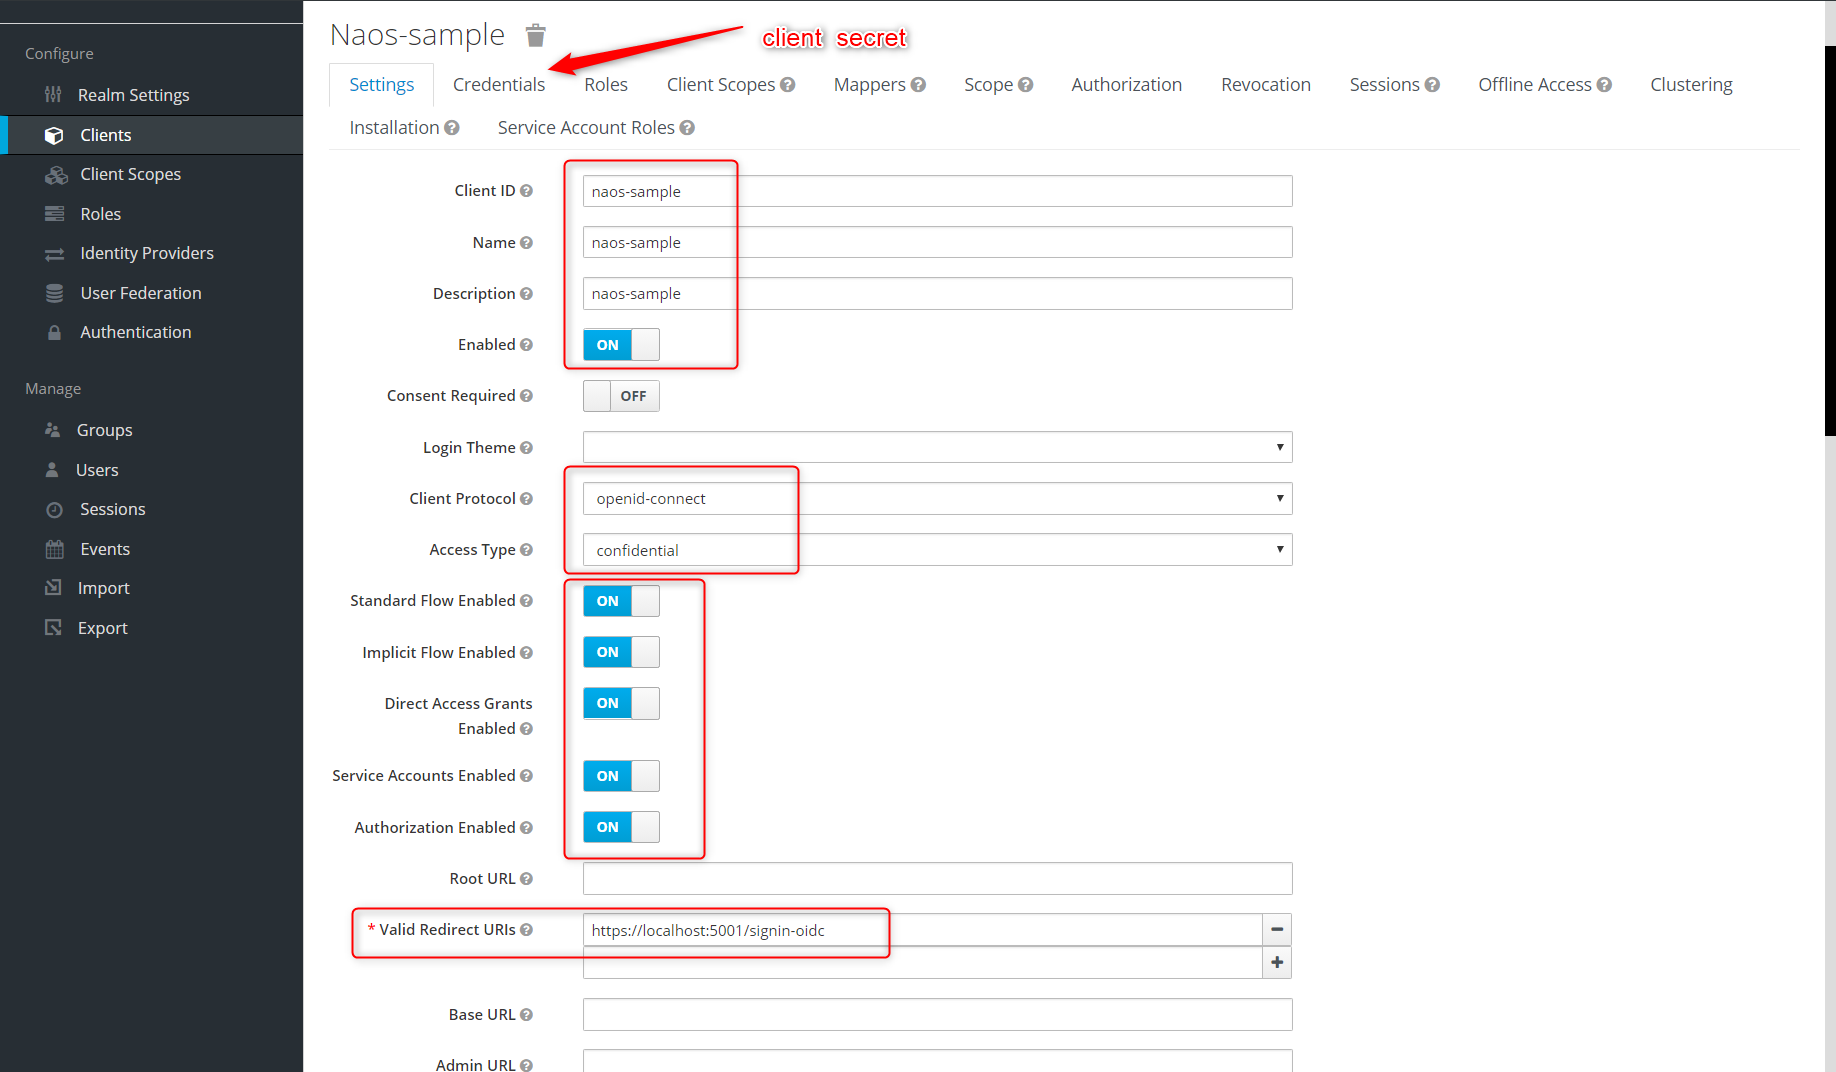
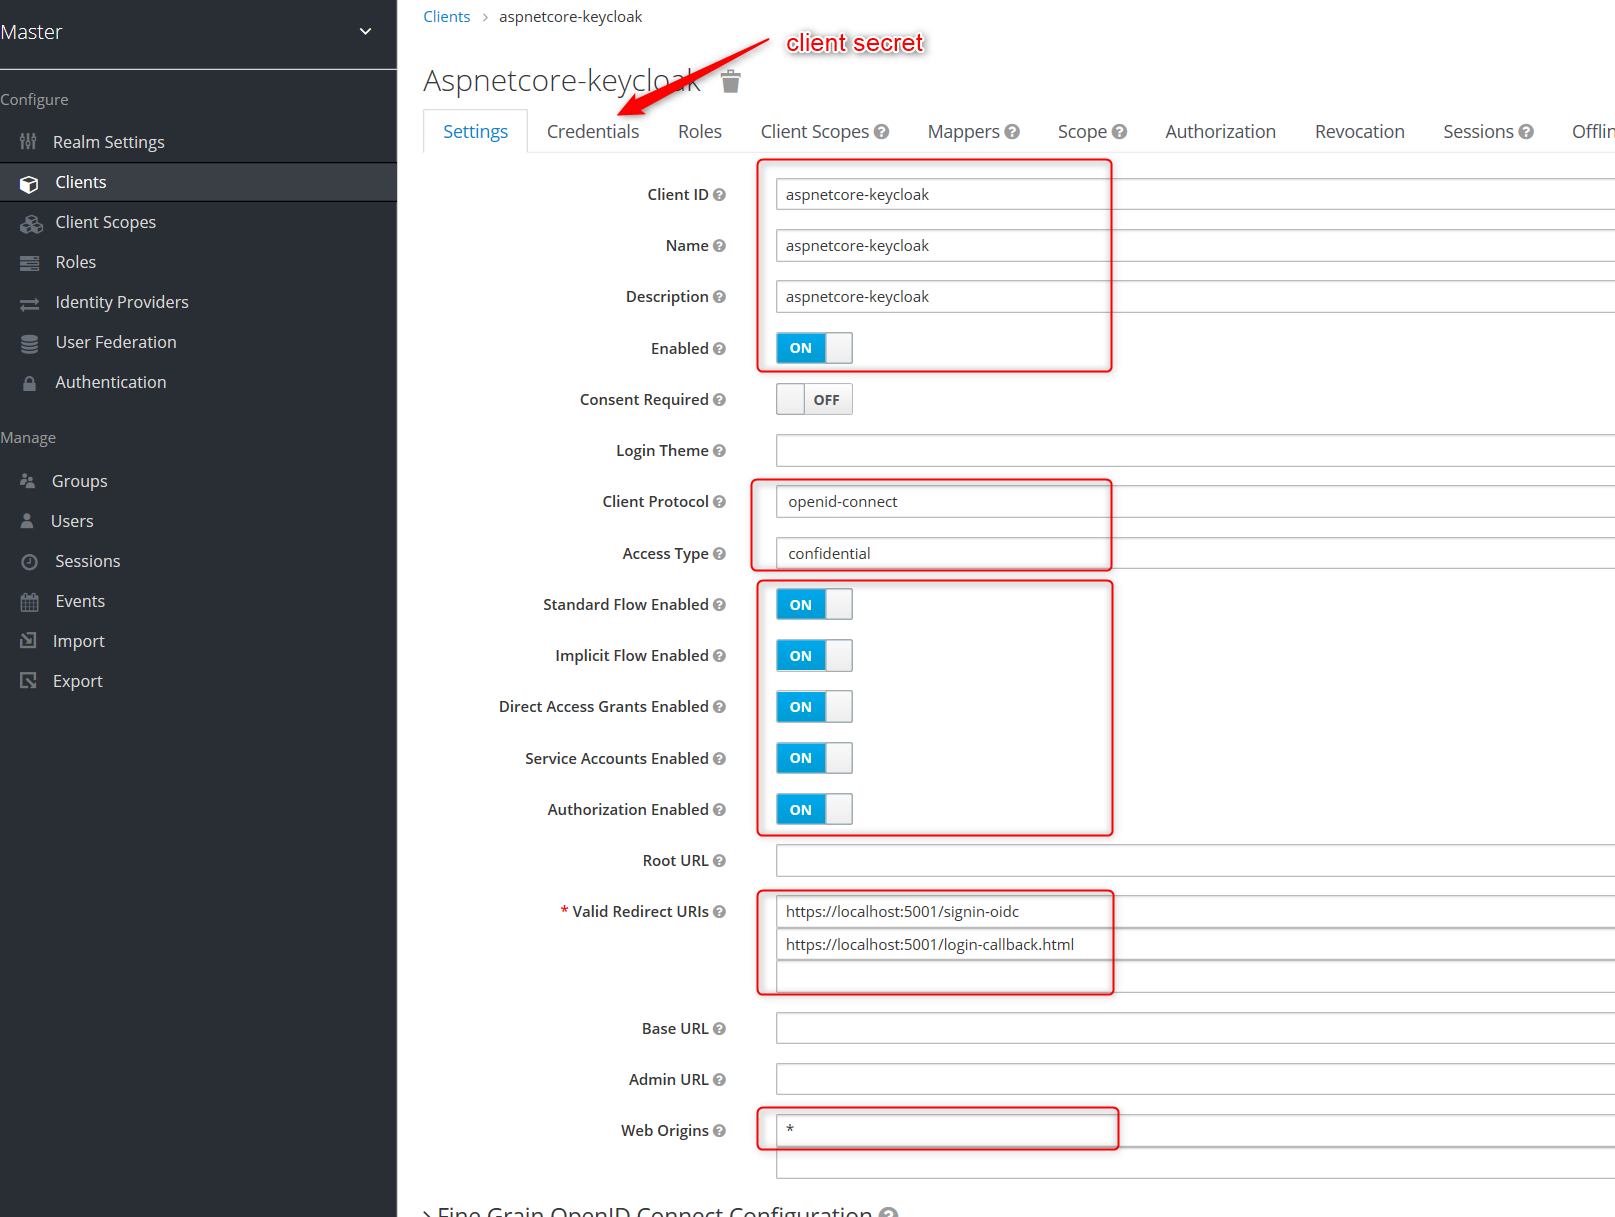
global-keycloak.azurewebsites.net

Changed region(s): [[0.1548, 0.0, 1.0, 1.0], [0.0, 0.0, 0.1238, 0.3694], [0.0, 0.3694, 0.0929, 0.6157]]

diff --git a/WebApi/wwwroot/signin-oidc.html b/WebApi/wwwroot/signin-oidc.html
@@ -14,9 +14,11 @@
             margin: 1em 0px;
             font-size: 12px;
         }
-        .table-striped>tbody>tr:nth-of-type(odd) {
+
+        .table-striped > tbody > tr:nth-of-type(odd) {
             background-color: black;
         }
+
         a {
             text-decoration: none;
             color: gray;
@@ -43,11 +45,11 @@
     </style>
     <script>
         var clientInfo = {
-            client_id: 'naos-sample',
-            redirect_uri: 'https://localhost:5001/login-callback.html'
+            client_id: 'aspnetcore-keycloak',
+            redirect_uri: 'https://localhost:5001/signin-oidc-callback.html'
         };
 
-        var providerInfo = OIDC.discover('http://localhost:8080/auth/realms/master');
+        var providerInfo = OIDC.discover('https://global-keycloak.azurewebsites.net/auth/realms/master');
         OIDC.setClientInfo(clientInfo);
         OIDC.setProviderInfo(providerInfo);
         OIDC.storeInfo(providerInfo, clientInfo);
@@ -64,7 +66,7 @@
 
 <BODY>
     <div class="container" style="margin-bottom: 50px;">
-        <h1>Implicit Flow - Login Page</h1>
+        <h1>Client Side > Implicit Flow - Signin Page</h1>
         <br>
         <b>clientInfo</b>
         <div id="clientInfo">

diff --git a/WebApi/wwwroot/signin-oidc-callback.html b/WebApi/wwwroot/signin-oidc-callback.html
@@ -61,8 +61,8 @@
 
 <BODY onload="print_id_token();">
     <div class="container">
-        <h1>Implicit Flow - Callback</h1>
-
+        <h1>Client Side > Implicit Flow - Signin Callback</h1>
+        <a href="/">back</a>
         <div id="retrievedInfo">
             id_token claims and userinfo not found.
         </div>

diff --git a/WebApi/Controllers/HomeController.cs b/WebApi/Controllers/HomeController.cs
@@ -4,23 +4,30 @@ using Microsoft.AspNetCore.Authentication;
 using Microsoft.AspNetCore.Authentication.Cookies;
 using Microsoft.AspNetCore.Authentication.OpenIdConnect;
 using Microsoft.AspNetCore.Mvc;
+using Microsoft.Extensions.Configuration;
 
 namespace KeyCloak.Controllers
 {
     [Route("/")]
     public class HomeController : ControllerBase
     {
+        private readonly IConfiguration configuration;
+
+        public HomeController(IConfiguration configuration)
+        {
+            this.configuration = configuration;
+        }
+
         [HttpGet]
         public async Task<IEnumerable<string>> Get()
         {
             return new string[]
             {
-                "http://localhost:8080/auth/realms/master/.well-known/openid-configuration",
-                // "http://localhost:8080/auth/realms/master/protocol/openid-connect/auth?response_type=token&client_id=naos-sample&redirect_uri=http://localhost:5000/callback",
+                $"{this.configuration["Oidc:Authority"]}/.well-known/openid-configuration",
                 $"{HttpContext.Request.Scheme}://{HttpContext.Request.Host}/api/values",
-                $"{HttpContext.Request.Scheme}://{HttpContext.Request.Host}/login.html",
-                $"{HttpContext.Request.Scheme}://{HttpContext.Request.Host}/login",
-                $"{HttpContext.Request.Scheme}://{HttpContext.Request.Host}/logout",
+                $"{HttpContext.Request.Scheme}://{HttpContext.Request.Host}/signin-oidc.html",
+                $"{HttpContext.Request.Scheme}://{HttpContext.Request.Host}/signin-oidc",
+                $"{HttpContext.Request.Scheme}://{HttpContext.Request.Host}/signout-oidc",
                 HttpContext.User?.Identity?.Name,
                 HttpContext.User?.Identity?.IsAuthenticated == true ? "access_token: " + await this.HttpContext.GetTokenAsync("access_token") : null, // https://www.jerriepelser.com/blog/accessing-tokens-aspnet-core-2/
                 HttpContext.User?.Identity?.IsAuthenticated == true ? "id_token: " + await this.HttpContext.GetTokenAsync("id_token") : null,
@@ -28,9 +35,9 @@ namespace KeyCloak.Controllers
         };
         }
 
-        [Route("login")]
+        [Route("signin-oidc")]
         [HttpGet]
-        public IActionResult Login()
+        public IActionResult Signin()
         {
             if (!HttpContext.User.Identity.IsAuthenticated)
             {
@@ -40,15 +47,19 @@ namespace KeyCloak.Controllers
             return new ObjectResult(HttpContext.User.Identity);
         }
 
-        [Route("logout")]
+        [Route("signout-oidc")]
         [HttpGet]
-        public IActionResult Logout()
+        public IActionResult Signout()
         {
-            return new SignOutResult(new[]
+            var result = new SignOutResult(new[]
             {
                 OpenIdConnectDefaults.AuthenticationScheme,
-                CookieAuthenticationDefaults.AuthenticationScheme
+                CookieAuthenticationDefaults.AuthenticationScheme,
             });
+
+            result.Properties = new AuthenticationProperties();
+            result.Properties.RedirectUri = $"{HttpContext.Request.Scheme}://{HttpContext.Request.Host}/";
+            return result;
         }
     }
 }

diff --git a/WebApi/Startup.cs b/WebApi/Startup.cs
@@ -33,8 +33,6 @@ namespace KeyCloak3
             .AddOpenIdConnect(options =>
             {
                 options.Authority = Configuration["Oidc:Authority"];
-                //options.MetadataAddress
-                //options.SignedOutRedirectUri = "/";
                 options.ClientId = Configuration["Oidc:ClientId"];
                 options.ClientSecret = Configuration["Oidc:ClientSecret"];
                 options.SaveTokens = true;

diff --git a/README.md b/README.md
@@ -1,6 +1,14 @@
 keycloak client setup:
 ![](keycloak_client_setup.png)
 
+- Client Protocol = openid-connect
+- Access Type = confidential
+  - client secret will appear under 'Credentials' after saving
+- Valid Redirect URIs = 
+  - for ASP.Net Core Authentication Middleware https://localhost:5001/signin-oidc + https://localhost:5001/signout-callback-oidc
+  - for custom html login https://localhost:5001/signin-oidc-callback.html
+- Web Origins = * (otherwise /userinfo request will have empty response)
+
 ### webapi appsettings:
 ```
  "Oidc": {
